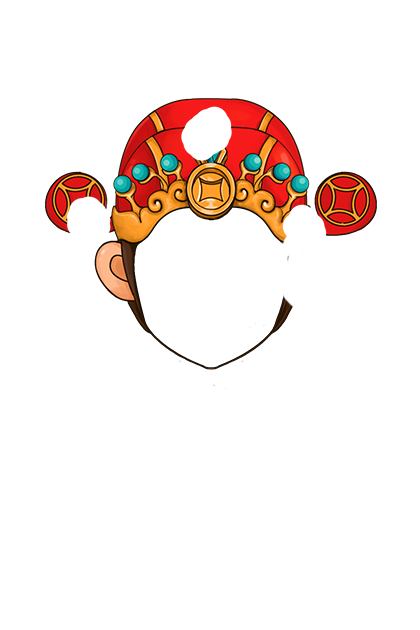
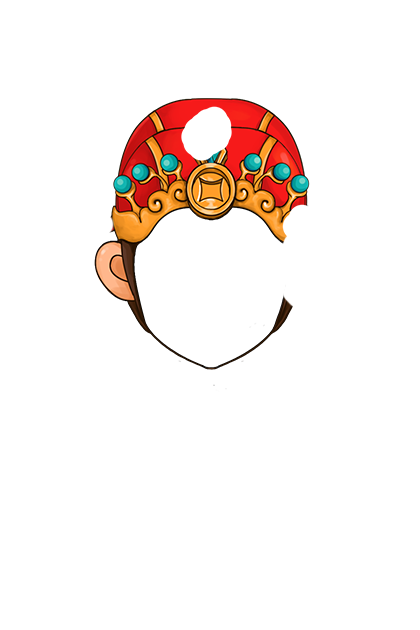
优化

Changed region(s): [[0.7429, 0.2714, 0.8976, 0.3921], [0.0929, 0.2714, 0.2786, 0.3619]]

diff --git a/card3/Home/View/Index/index.html b/card3/Home/View/Index/index.html
@@ -24,8 +24,8 @@
 		<input  id="userId" value="{$id}"  type="hidden" />
 		<a href="javascript:;"  id="shareicon"  class="shareicon"><img src="src/images/shareicon.png"/></a>
 		<div id="scene"></div>
-		<div id="hitarea" style="background: url('src/images/bg-1.png') no-repeat;"></div>
-		
+		<div id="gifHack" style="background: url('src/images/bg-3.png') no-repeat;background-size: 100% auto;" ></div>
+		<div id="hitarea" class="hide"></div>
 		<div id="rotateRight" class="hide" onclick="rotateRight();"></div>
 		<div id="rotateLeft" class="hide" onclick="rotateLeft();"></div>
 		<div id="bingo" class="hide" onclick="clipPhoto();"></div>

diff --git a/card2/Home/View/Index/index.html b/card2/Home/View/Index/index.html
@@ -24,6 +24,7 @@
 		<input  id="userId" value="{$id}"  type="hidden" />
 		<a href="javascript:;"  id="shareicon"  class="shareicon"><img src="src/images/shareicon.png"/></a>
 		<div id="scene"></div>
+		<div id="gifHack" style="background: url('src/images/bg-2.png') no-repeat;background-size: 100% auto;" ></div>
 		<div id="hitarea" class="hide"></div>
 		
 		<div id="rotateRight" class="hide" onclick="rotateRight();"></div>
